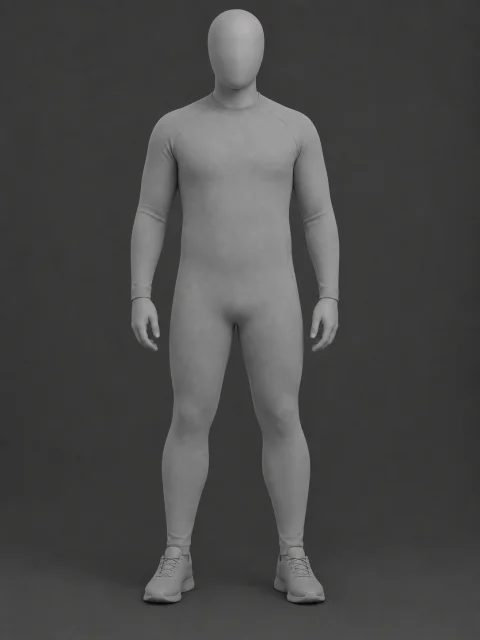
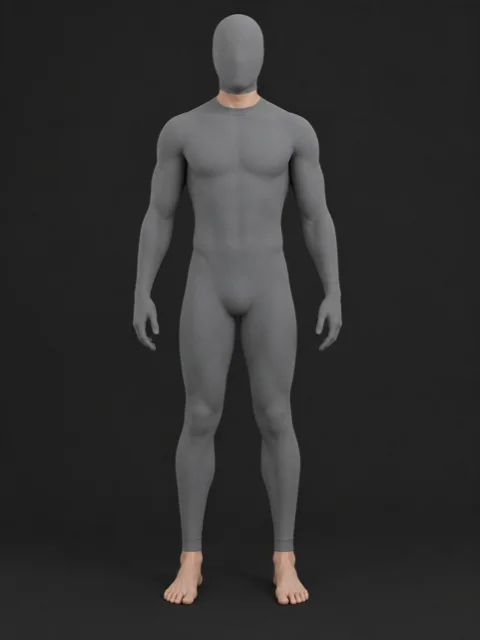
표준 체형 이미지 교체: 맨발, 중간 근육량 (남/여)
기존 male/female-average.webp는 신발을 신고 있었고 실루엣이 밋밋했다.
Higgsfield(gpt_image_2_5)로 다시 생성 — 회색 바디수트를 입은 조각상형 마네킹,
맨발, 마름과 근육질 사이의 자연스러운 근육량. 기존 파일과 같은 480x640 크기.

캐시 버스팅 쿼리를 v=4 → v=5로 올려 즉시 반영되게 했다.

Claude-Session: https://claude.ai/code/session_01Bh7ETEbeaKmPiWVUeXdddU

diff --git a/apps/web/app/(main)/create/character-form.tsx b/apps/web/app/(main)/create/character-form.tsx
@@ -459,7 +459,7 @@ function BodyPicker({ build, onBuild, gender, onGender }: {
               whileTap={reduce ? undefined : { scale: 0.97 }}
               style={{ padding: 3, cursor: 'pointer', borderRadius: 'var(--radius-md)', background: 'none', border: `0.5px solid ${on ? 'var(--color-accent)' : 'transparent'}` }}>
               {/* eslint-disable-next-line @next/next/no-img-element */}
-              <img src={`/builds/${gender}-${b}.webp${b === "average" ? "?v=4" : ""}`} alt="" width={120} height={160} loading="lazy" decoding="async"
+              <img src={`/builds/${gender}-${b}.webp${b === "average" ? "?v=5" : ""}`} alt="" width={120} height={160} loading="lazy" decoding="async"
                 style={{ width: '100%', aspectRatio: '3 / 4', objectFit: 'cover', display: 'block', borderRadius: 'var(--radius-sm)', opacity: on ? 1 : 0.5, transition: 'opacity var(--motion-fast) var(--ease-standard)' }} />
               <span className="t-micro" style={{ display: 'block', textAlign: 'center', textTransform: 'none', letterSpacing: 0, marginTop: 5, color: on ? 'var(--color-accent-text)' : 'var(--color-text-tertiary)' }}>{BUILD_PRESETS[b].label}</span>
             </motion.button>

diff --git a/apps/web/app/(main)/character/[slug]/settings-view.tsx b/apps/web/app/(main)/character/[slug]/settings-view.tsx
@@ -50,7 +50,7 @@ export function CharacterSettingsView({ visual, contact, name }: { name: string;
   const gender = visual?.bodyProfile.gender
   const build = visual?.bodyProfile.build
   const bodyAvatar = gender && build
-    ? { src: `/builds/${gender}-${build}.webp${build === "average" ? "?v=4" : ""}`, alt: `${name}의 ${GENDER_PRESETS[gender]?.label} ${BUILD_PRESETS[build]?.label} 체형` }
+    ? { src: `/builds/${gender}-${build}.webp${build === "average" ? "?v=5" : ""}`, alt: `${name}의 ${GENDER_PRESETS[gender]?.label} ${BUILD_PRESETS[build]?.label} 체형` }
     : undefined
   const appearance: [string, string | null | undefined][] = visual ? [
     ['성별', visual.bodyProfile.gender ? GENDER_PRESETS[visual.bodyProfile.gender]?.label : null],
